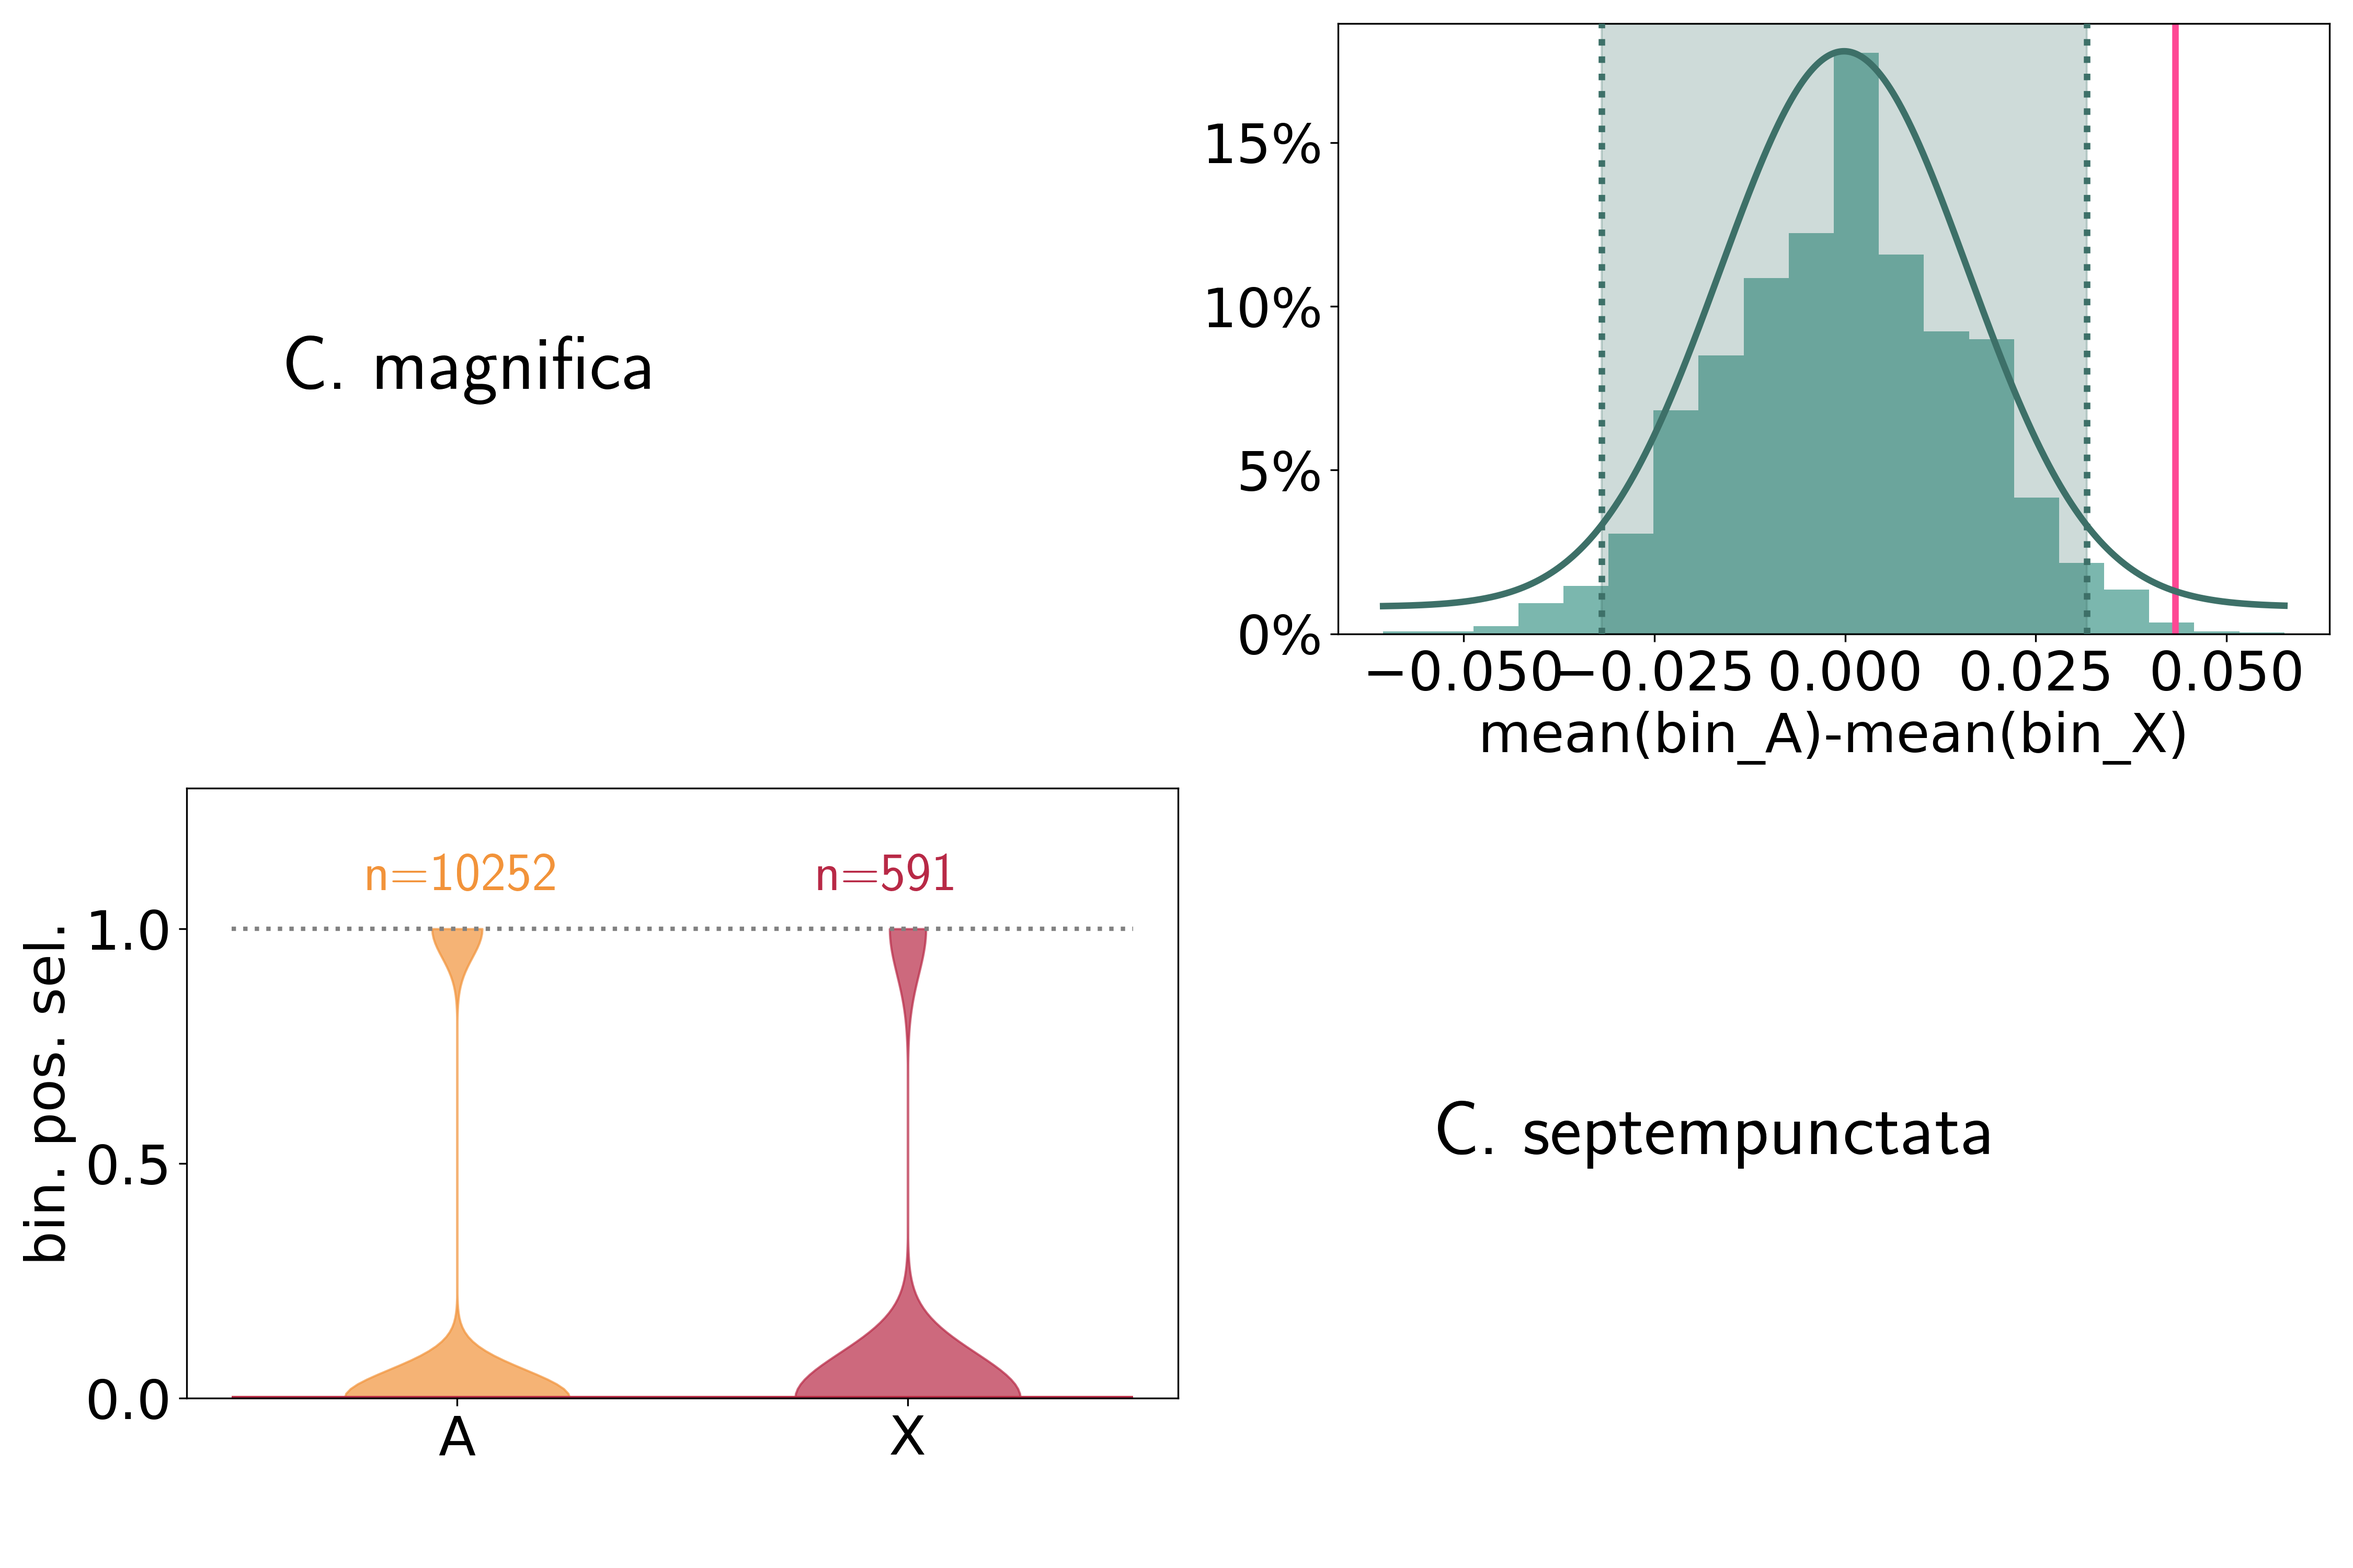
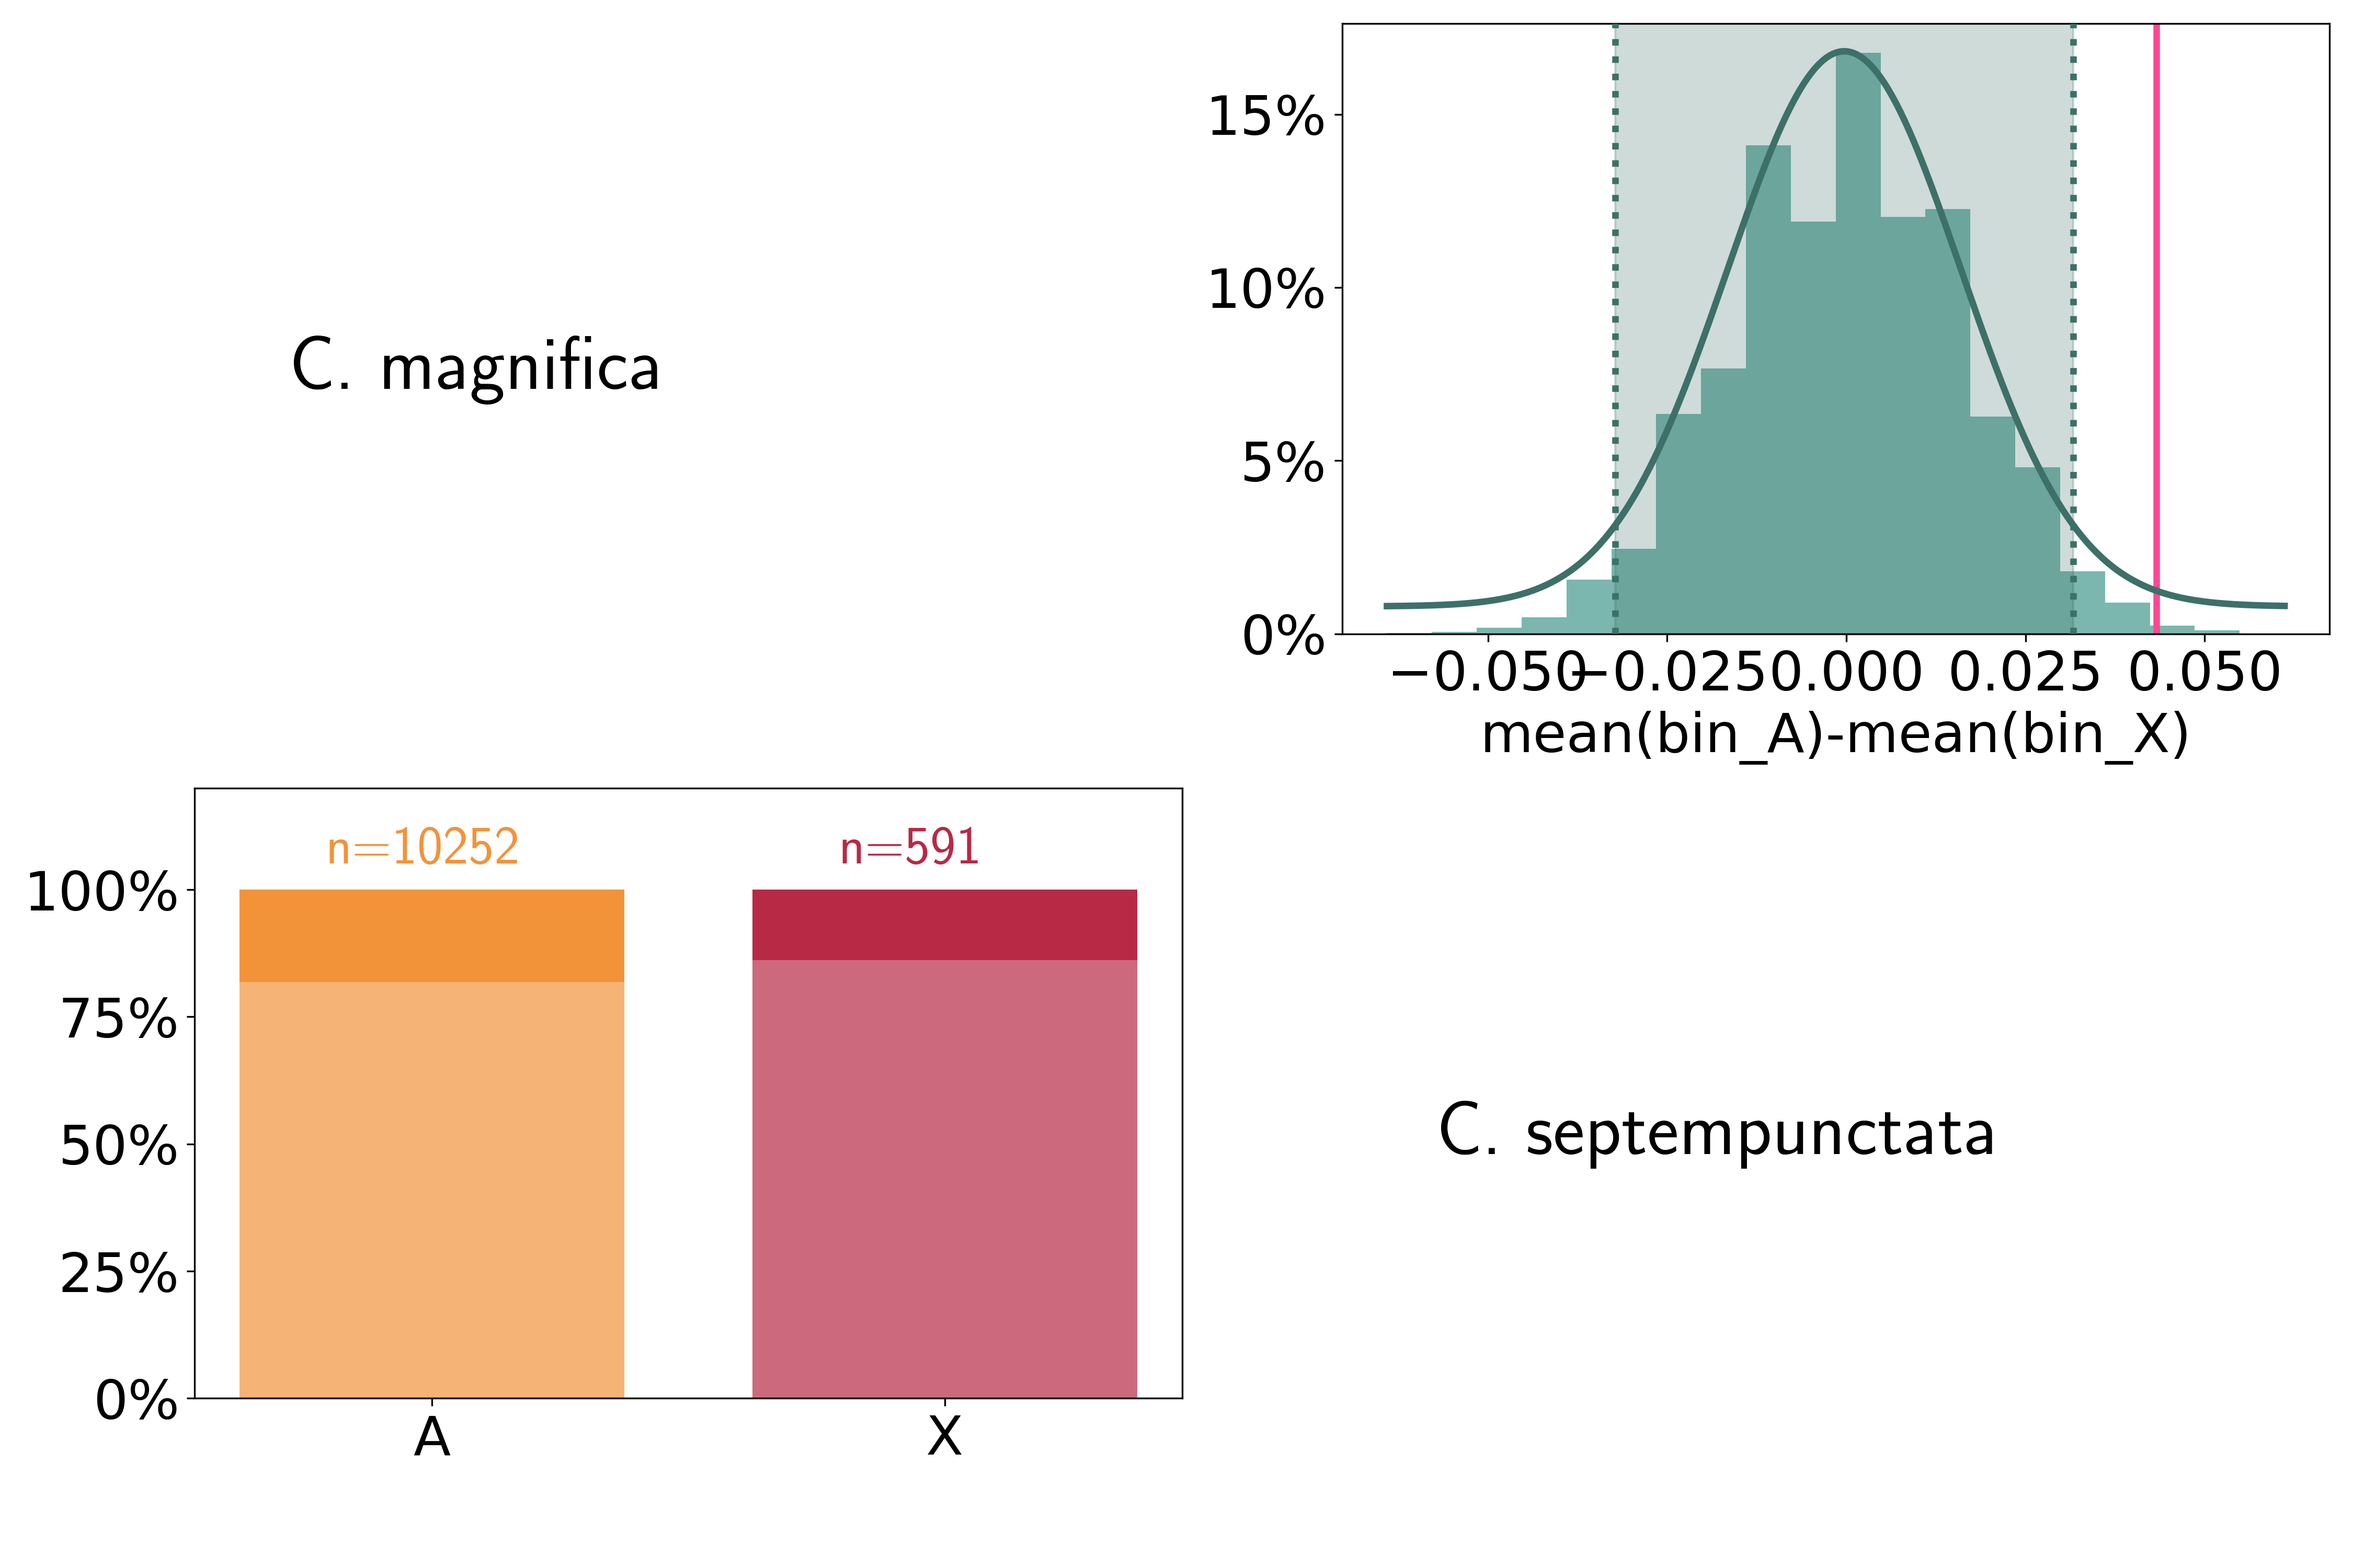
update to binary barplot

diff --git a/src/plotting/analyze_site_classes.py b/src/plotting/analyze_site_classes.py
@@ -8,6 +8,7 @@ and then p and w from the site classes table. Either two or three site classes, 
 import os
 import numpy as np
 import bootstrap_dNdS 
+from matplotlib.ticker import FuncFormatter
 
 site_classes_files = {
     "A" : "/Users/miltr339/work/chapter3/dNdS/site_classes_summary_A-linked.txt",
@@ -211,10 +212,45 @@ def avg_prop_pos_sel_sites(summary_dict, full_list = False):
     return out_dict
 
 
+
+def binary_barplot_pair(data_A, data_X, row, col, n_A, n_X, axes, colors_dict, fs, ylab ="percent", xticks = ["A", "X"]):
+    """
+    plot a bar chart to show proportion of genes that have a positive site-class model LRT
+    """
+    A_nonsig = len([val for val in data_A if val == 0.0])*100.0
+    X_nonsig = len([val for val in data_X if val == 0.0])*100.0
+    nonsig = [A_nonsig/len(data_A), X_nonsig/len(data_X)]
+    A_sig = len([val for val in data_A if val == 1.0])*100.0
+    X_sig = len([val for val in data_X if val == 1.0])*100.0
+    sig = [A_sig/len(data_A), X_sig/len(data_X)]
+
+    axes[row,col].bar([1,2], nonsig, width = 0.75, label='M1a', color=[colors_dict["A"], colors_dict["X"]], alpha=0.7)
+    axes[row,col].bar([1,2], sig, width = 0.75, bottom=nonsig, label='M2a', color= [colors_dict["A"], colors_dict["X"]])
+    print(f"\t - row: {row} col: {col}\t nonsignificant: A= {nonsig[0]:.2f}% X={nonsig[1]:.2f}%")
+    print(f"\t - row: {row} col: {col}\t significant: A= {sig[0]:.2f}% X={sig[1]:.2f}%")
+
+    axes[row, col].set_ylim([0,120])
+    axes[row, col].yaxis.set_major_formatter(FuncFormatter(lambda x, pos: '' if x > 100 and x<1 else f'{int(x)}%'))
+
+    axes[row, col].text(1-0.2, 105, f"n={n_A}", fontsize = fs, color = colors_dict["A"])
+    axes[row, col].text(2-0.2, 105, f"n={n_X}", fontsize = fs, color = colors_dict["X"])
+    
+    axes[row, col].set_xticks([1,2])
+    axes[row, col].set_xticklabels(xticks)
+
+    axes[row, col].set_xlabel('')
+    if col-row == 1:
+        axes[row, col].set_ylabel(ylab, fontsize = fs*0.8)
+    else:
+        axes[row, col].set_ylabel('')
+    axes[row,col].tick_params(axis='y', labelsize=fs)
+    axes[row,col].tick_params(axis='x', labelsize=fs) 
+
+
 if __name__ == "__main__":
 
     chr_types = ["X", "A"]
-    username = "milena" # f"miltr339"
+    username = f"miltr339" #"milena"
 
     if False:
         ## compute statistics to terminal
@@ -268,8 +304,10 @@ if __name__ == "__main__":
     bootstraps = {pair : [] for pair in pairs_list}
     mean_num_pos_sel = {pair : np.NaN for pair in pairs_list}
     
-    ### test with 100, takes a bit of time otherwise
+    ####
+    #  test with 100, takes a bit of time otherwise
     num_permutations = 10000
+    ####
 
     for pair in pairs_list:
         pos_props_A = pos_list_A[pair]

diff --git a/src/plotting/bootstrap_dNdS.py b/src/plotting/bootstrap_dNdS.py
@@ -4,6 +4,7 @@ import numpy as np
 from tqdm import tqdm
 import matplotlib.pyplot as plt
 from matplotlib.ticker import PercentFormatter,FuncFormatter
+import analyze_site_classes as site_classes
 
 
 def permute_dNdS(dNdS_A, dNdS_X):
@@ -55,6 +56,7 @@ def calculate_list_CI(values_list:list, cl = 0.95, verbose = False):
         print(f"\t\tmean correlation coefficient: {mean_coeff:.3f}, standard deviation {std_coeff:.3f}, 95% confidence interval: [{lower:.3f}, {upper:.3f}]")
     # ci = sts.t.interval(cl, df=len(values_list)-1, loc=np.mean(values_list), scale=np.std(values_list, ddof=1) / np.sqrt(len(values_list)))
     return(norm_coeffs)
+
 
 
 def plot_dNdS_permutations(boot_diff:dict, measure_diff:dict, A_dict:dict, X_dict:dict, filename = "dNdS_permutations.png", dark_mode=False, hist_label = r"$\text{dNdS}_A - \text{dNdS}_X$", violin_label="dNdS", violin_ymax = 0, transparent=True, binary = False):
@@ -194,17 +196,9 @@ def plot_dNdS_permutations(boot_diff:dict, measure_diff:dict, A_dict:dict, X_dic
         mean_X = np.nanmedian(data_X)
 
         data_AX = [data_A, data_X]
-        # plot mirror
 
         if binary:
-            A_nonsig = len([val for val in data_A if val == 0.0])
-            X_nonsig = len([val for val in data_X if val == 0.0])
-            nonsig = [A_nonsig/len(data_A), X_nonsig/len(data_X)]
-            A_sig = len([val for val in data_A if val == 1.0])
-            X_sig = len([val for val in data_X if val == 1.0])
-            sig = [A_sig/len(data_A), X_sig/len(data_X)]
-            axes[col,row].bar([1,2], nonsig, width = 0.75, label='M1a', color=[colors_dict["A"], colors_dict["X"]], hatch="")
-            axes[col,row].bar([1,2], sig, width = 0.75, bottom=nonsig, label='M2a', color= [colors_dict["A"], colors_dict["X"]], hatch="//")
+            site_classes.binary_barplot_pair(data_A=data_A, data_X=data_X, row=col, col=row, n_A=n_A, n_X=n_X, axes=axes, colors_dict=colors_dict, fs = fs, ylab ="pos. sel. genes")
         else:
             violinplot_pair(data_A_X=data_AX, row=col, col=row, n_A=n_A, n_X=n_X, mean_A=mean_A, mean_X=mean_X, axes = axes, colors_dict=colors_dict, fs = fs, xlab = violin_label, ymax = violin_ymax)
         # axes[col,row].set_title(f'{species2}\n{species1}', fontsize = fs*0.85)

diff --git a/README.md b/README.md
@@ -449,6 +449,25 @@ Everything is 10000 permutations, and A-X, therefore:
 
 **Binary** (left): FastX in all comparison except *B. siliquastri*
 
+* A. obtectus vs. B. siliquastri
+  - nonsignificant: A= 84.88% X=83.42%
+  - significant: A= 15.12% X=16.58%
+* A. obtectus vs. C. chinensis
+  - nonsignificant: A= 87.80% X=82.46%
+  - significant: A= 12.20% X=17.54%
+* C. maculatus vs. A. obtectus
+  - nonsignificant: A= 90.27% X=85.68%
+  - significant: A= 9.73% X=14.32%
+* B. siliquastri vs. C. chinensis
+  - nonsignificant: A= 81.37% X=77.44%
+  - significant: A= 18.63% X=22.56%
+* C. maculatus vs. B. siliquastri
+  - nonsignificant: A= 85.46% X=82.22%
+  - significant: A= 14.54% X=17.78%
+* C. maculatus vs. C. chinensis
+  - nonsignificant: A= 79.39% X=73.46%
+  - significant: A= 20.61% X=26.54%
+
 **Proportional** (right): no difference between X and A
 
 <p float="left">
@@ -459,6 +478,8 @@ Everything is 10000 permutations, and A-X, therefore:
 ### Coccinella
 
 **Binary** (left): Significantly slowX
+- nonsignificant: A= 81.80% X=86.13%
+- significant: A= 18.20% X=13.87%
 
 **Proportional** (right): Significantly slowX
 
@@ -470,6 +491,8 @@ Everything is 10000 permutations, and A-X, therefore:
 ### Tribolium
 
 **Binary** (left): not significant
+- nonsignificant: A= 78.36% X=79.78%
+- significant: A= 21.64% X=20.22%
 
 **Proportional** (right): not significant
 
